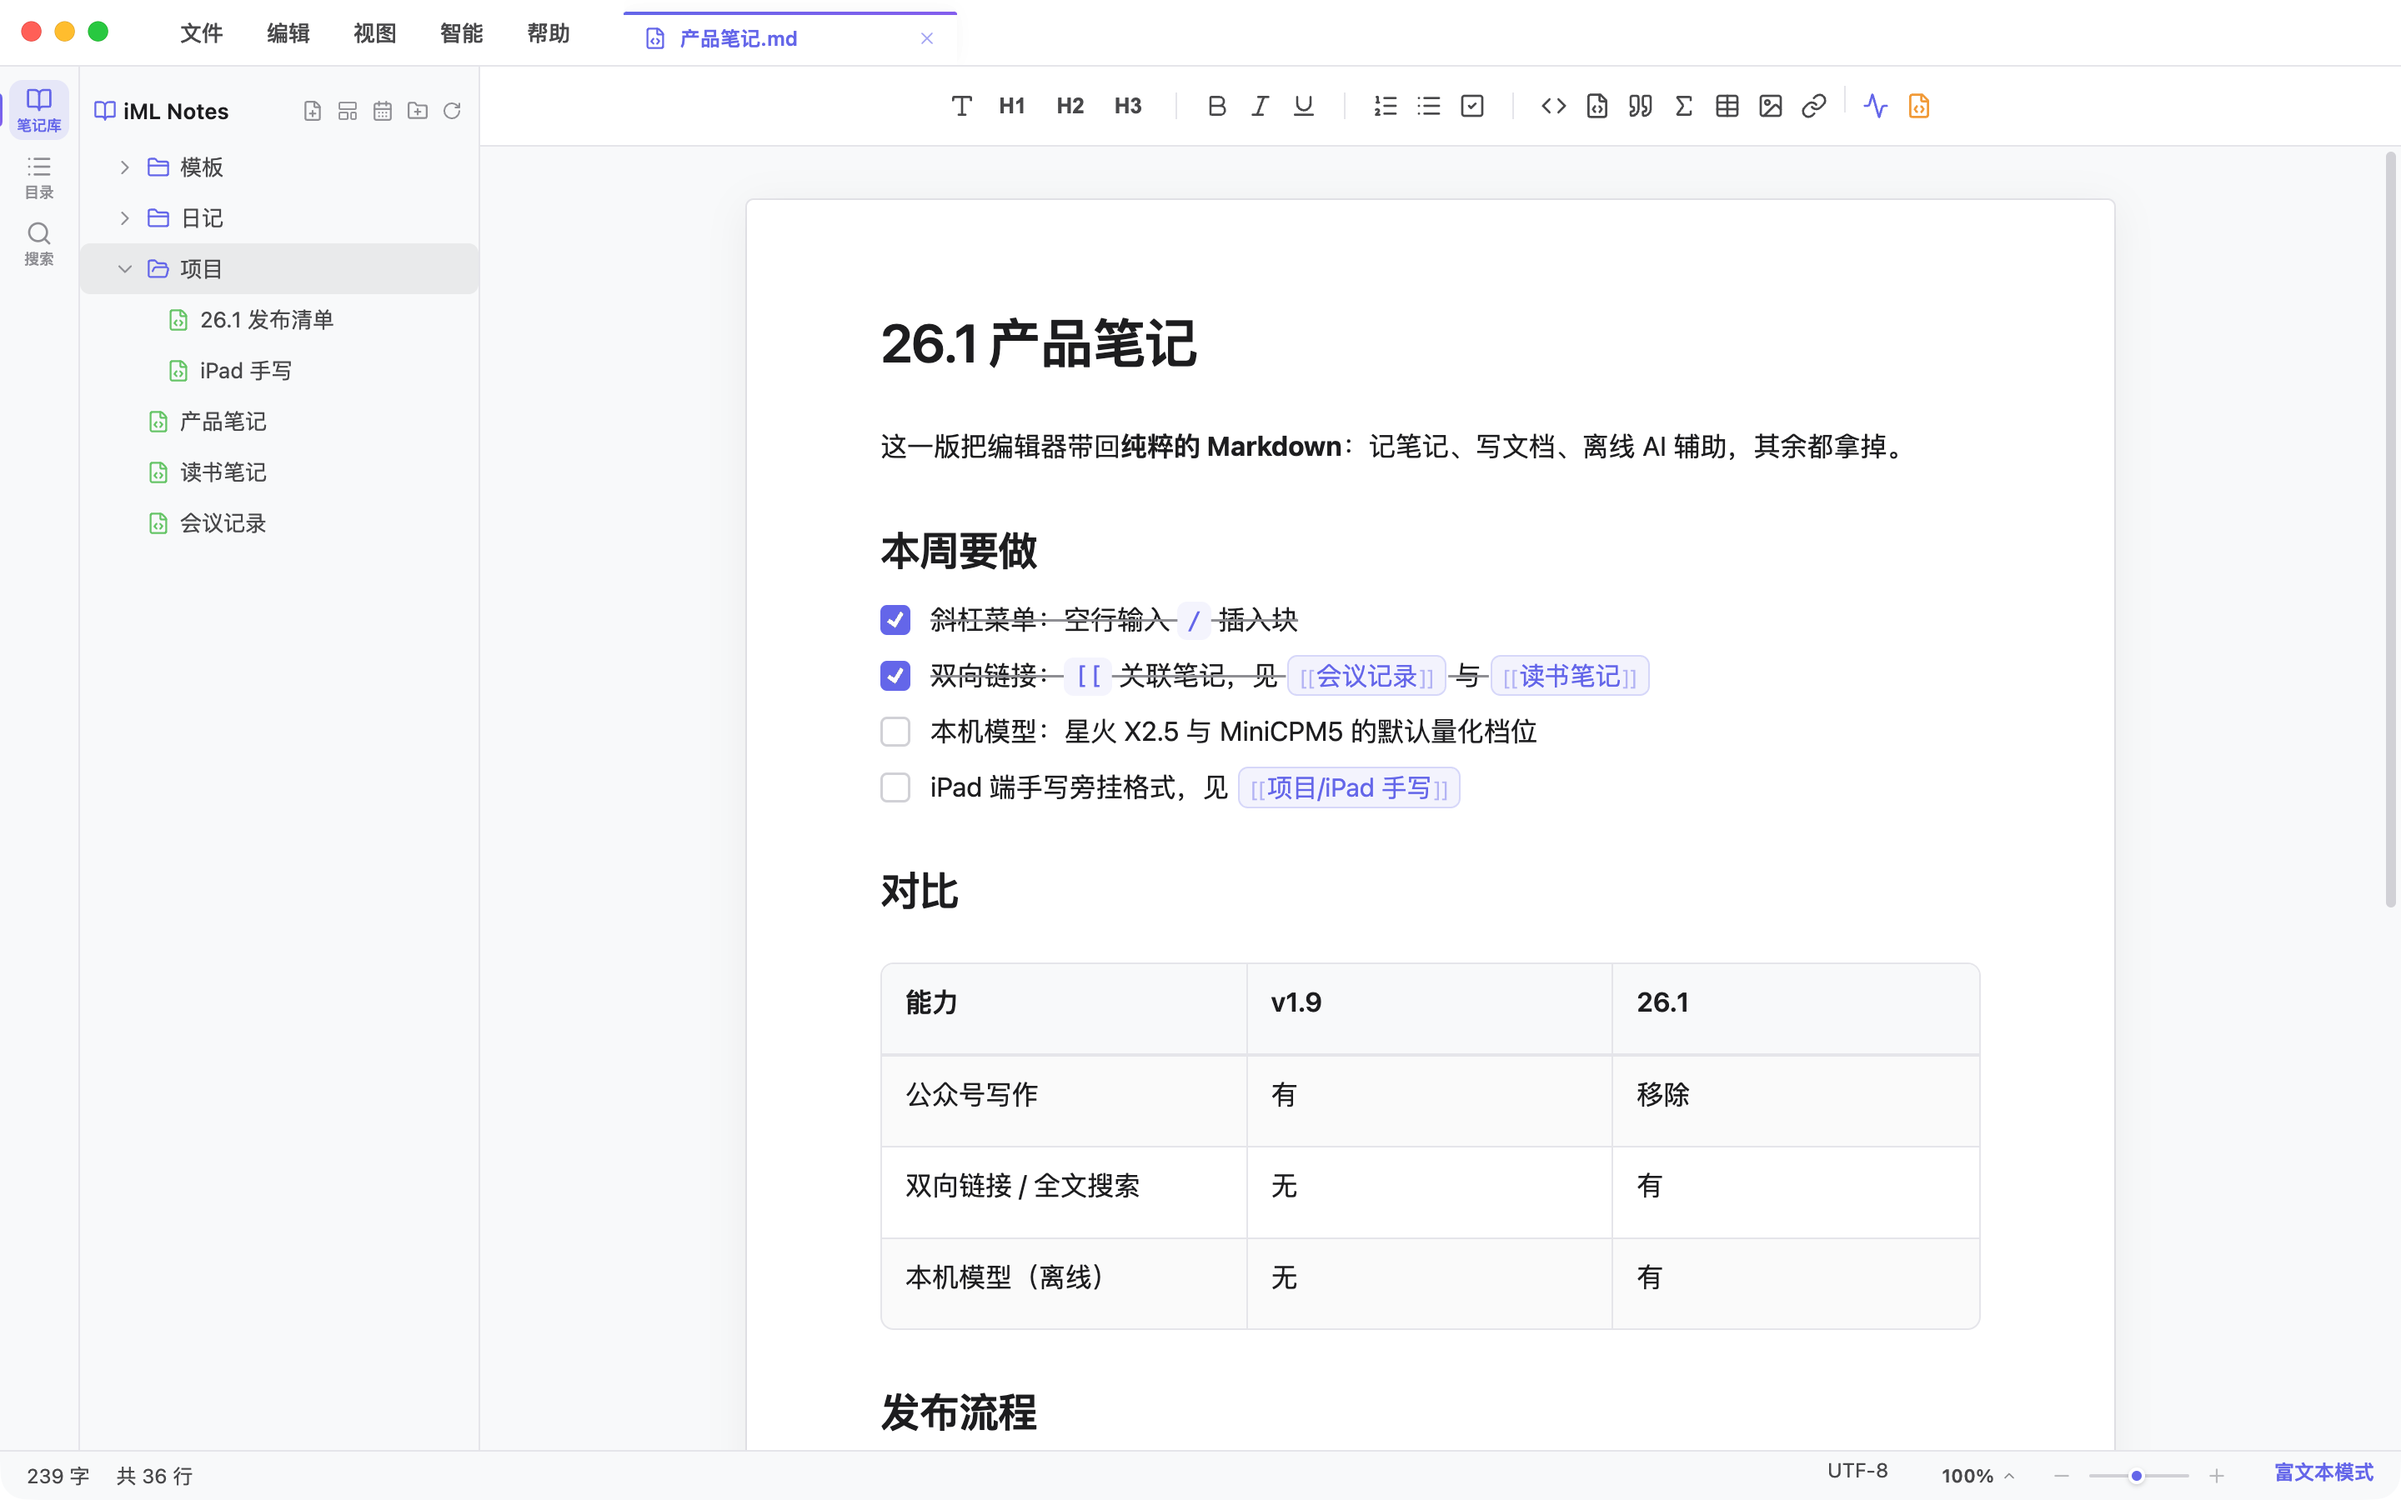
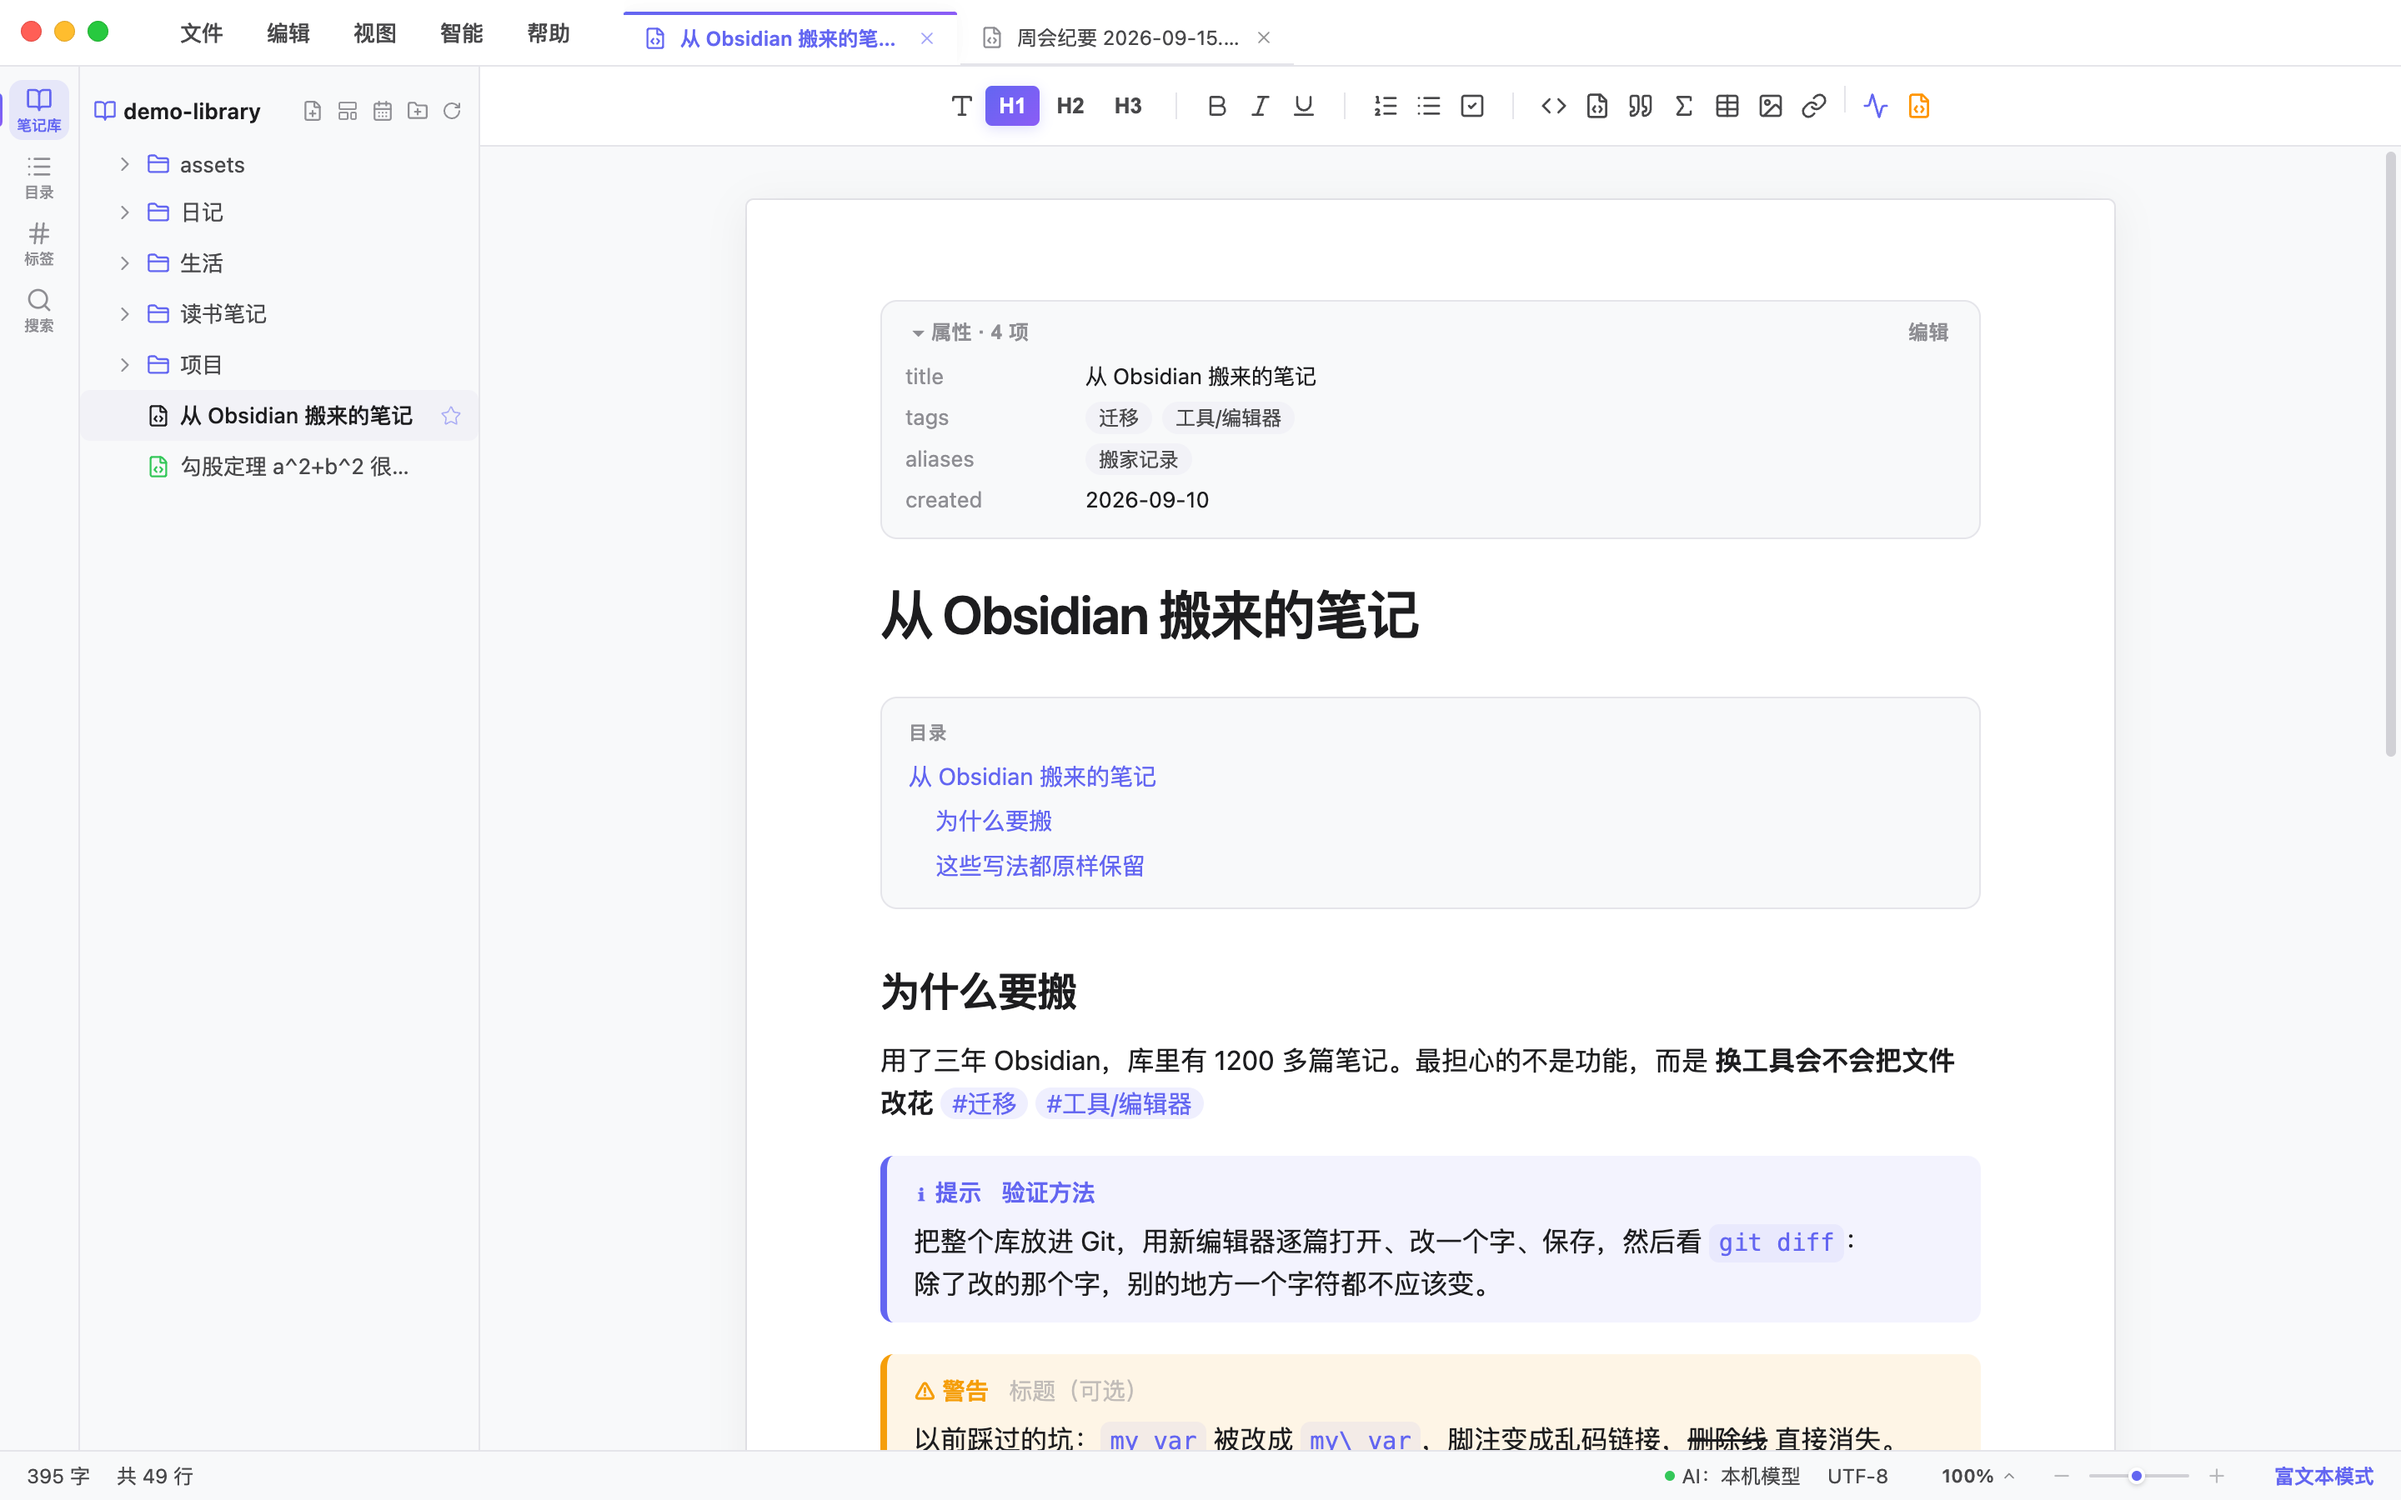
截图：首图、本机模型面板、AI 气泡改用 26.2 的界面
三张都是 26.2 之前拍的，和现在的界面对不上：
- 首图还是 26.1 的内容，侧边栏没有「标签」页
  换成打开「从 Obsidian 搬来的笔记」，一屏里同时有属性卡片、自动目录、#标签、提示块
- 本机模型面板的标题还叫「模型配置」，区块顺序也是旧的
- AI 气泡里的模式按钮还写着「AI 图片」

离屏渲染没有系统窗口装饰，首图的红绿灯用应用自己的 canvas 合成
（截图脚本在 ~/Library/Caches/iml-markdown-editor-dev/reshoot.mjs）

diff --git a/README.md b/README.md
@@ -2,7 +2,7 @@
 
 **极简其表 · 极致内核**
 
-![iML Markdown Editor 26.1：笔记库、富文本编辑、双向链接](screenshots/首页.png)
+![iML Markdown Editor 26.2：搬进来的笔记原样呈现 —— 属性卡片、自动目录、#标签、提示块](screenshots/首页.png)
 
 ---
 
@@ -94,7 +94,7 @@
 |---|---|
 | ![空格唤起 AI](screenshots/空格AI.png) | ![气泡菜单](screenshots/气泡菜单.png) |
 
-| 本机模型：一键下载运行时与模型 | 润色的四种风格 |
+| 写作助手 → 本机模型：一键下载运行时与模型 | 润色的四种风格 |
 |---|---|
 | ![本机模型](screenshots/本机模型.png) | ![润色风格](screenshots/润色风格.png) |
 
